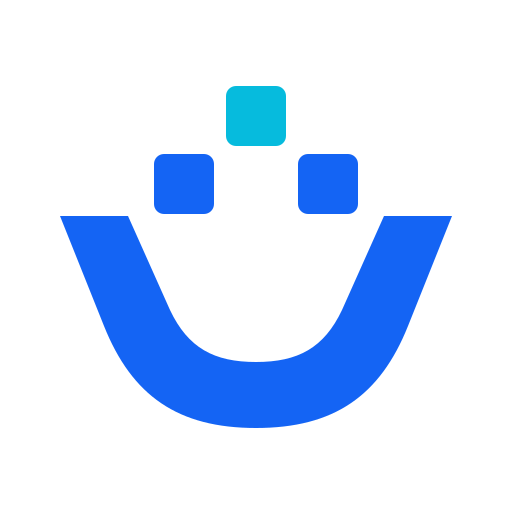
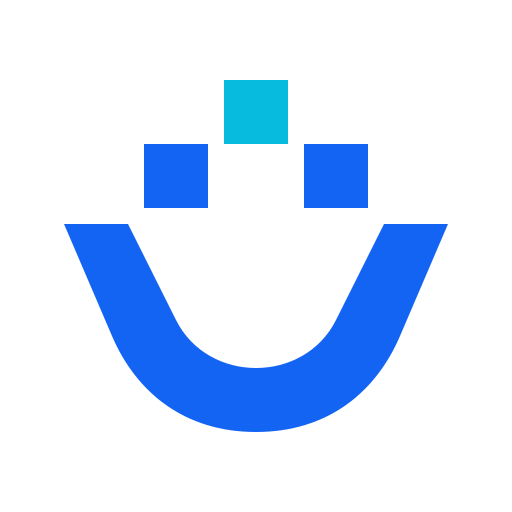
docs(brand): synchronize the refined ARK identity (#126)
Replace the previous logo and icons with the approved continuous curved
cradle and outlined Inter 600 ARK wordmark. Synchronize documentation
assets, SVG/ICO favicons and legacy image aliases with the masters
archived in OpenArkStudio/.github#4.

Keep both README languages concise and centered; update the logo width
to preserve the selected proportions and use a versioned asset URL to
refresh image caches. README body content is unchanged.

Validation: npm run check --prefix docs/site passes (129 generated HTML
pages and 245 internal references). All documentation SVG copies match
the archived masters, both README bodies match main, and the ICO
contains all six expected sizes. Native coverage is determined by the
existing CI scope policy; hosted PR and queue acceptance remain
required.

diff --git a/README.md b/README.md
@@ -2,8 +2,8 @@
 
 <p align="center">
   <picture>
-    <source media="(prefers-color-scheme: dark)" srcset="https://raw.githubusercontent.com/OpenArkStudio/.github/main/assets/ark-logo-dark.svg">
-    <img src="https://raw.githubusercontent.com/OpenArkStudio/.github/main/assets/ark-logo-light.svg" alt="ark" width="307">
+    <source media="(prefers-color-scheme: dark)" srcset="https://raw.githubusercontent.com/OpenArkStudio/.github/main/assets/ark-logo-dark.svg?v=20261022">
+    <img src="https://raw.githubusercontent.com/OpenArkStudio/.github/main/assets/ark-logo-light.svg?v=20261022" alt="ARK" width="337">
   </picture>
 </p>
 

diff --git a/README_CN.md b/README_CN.md
@@ -2,8 +2,8 @@
 
 <p align="center">
   <picture>
-    <source media="(prefers-color-scheme: dark)" srcset="https://raw.githubusercontent.com/OpenArkStudio/.github/main/assets/ark-logo-dark.svg">
-    <img src="https://raw.githubusercontent.com/OpenArkStudio/.github/main/assets/ark-logo-light.svg" alt="ark" width="307">
+    <source media="(prefers-color-scheme: dark)" srcset="https://raw.githubusercontent.com/OpenArkStudio/.github/main/assets/ark-logo-dark.svg?v=20261022">
+    <img src="https://raw.githubusercontent.com/OpenArkStudio/.github/main/assets/ark-logo-light.svg?v=20261022" alt="ARK" width="337">
   </picture>
 </p>
 
